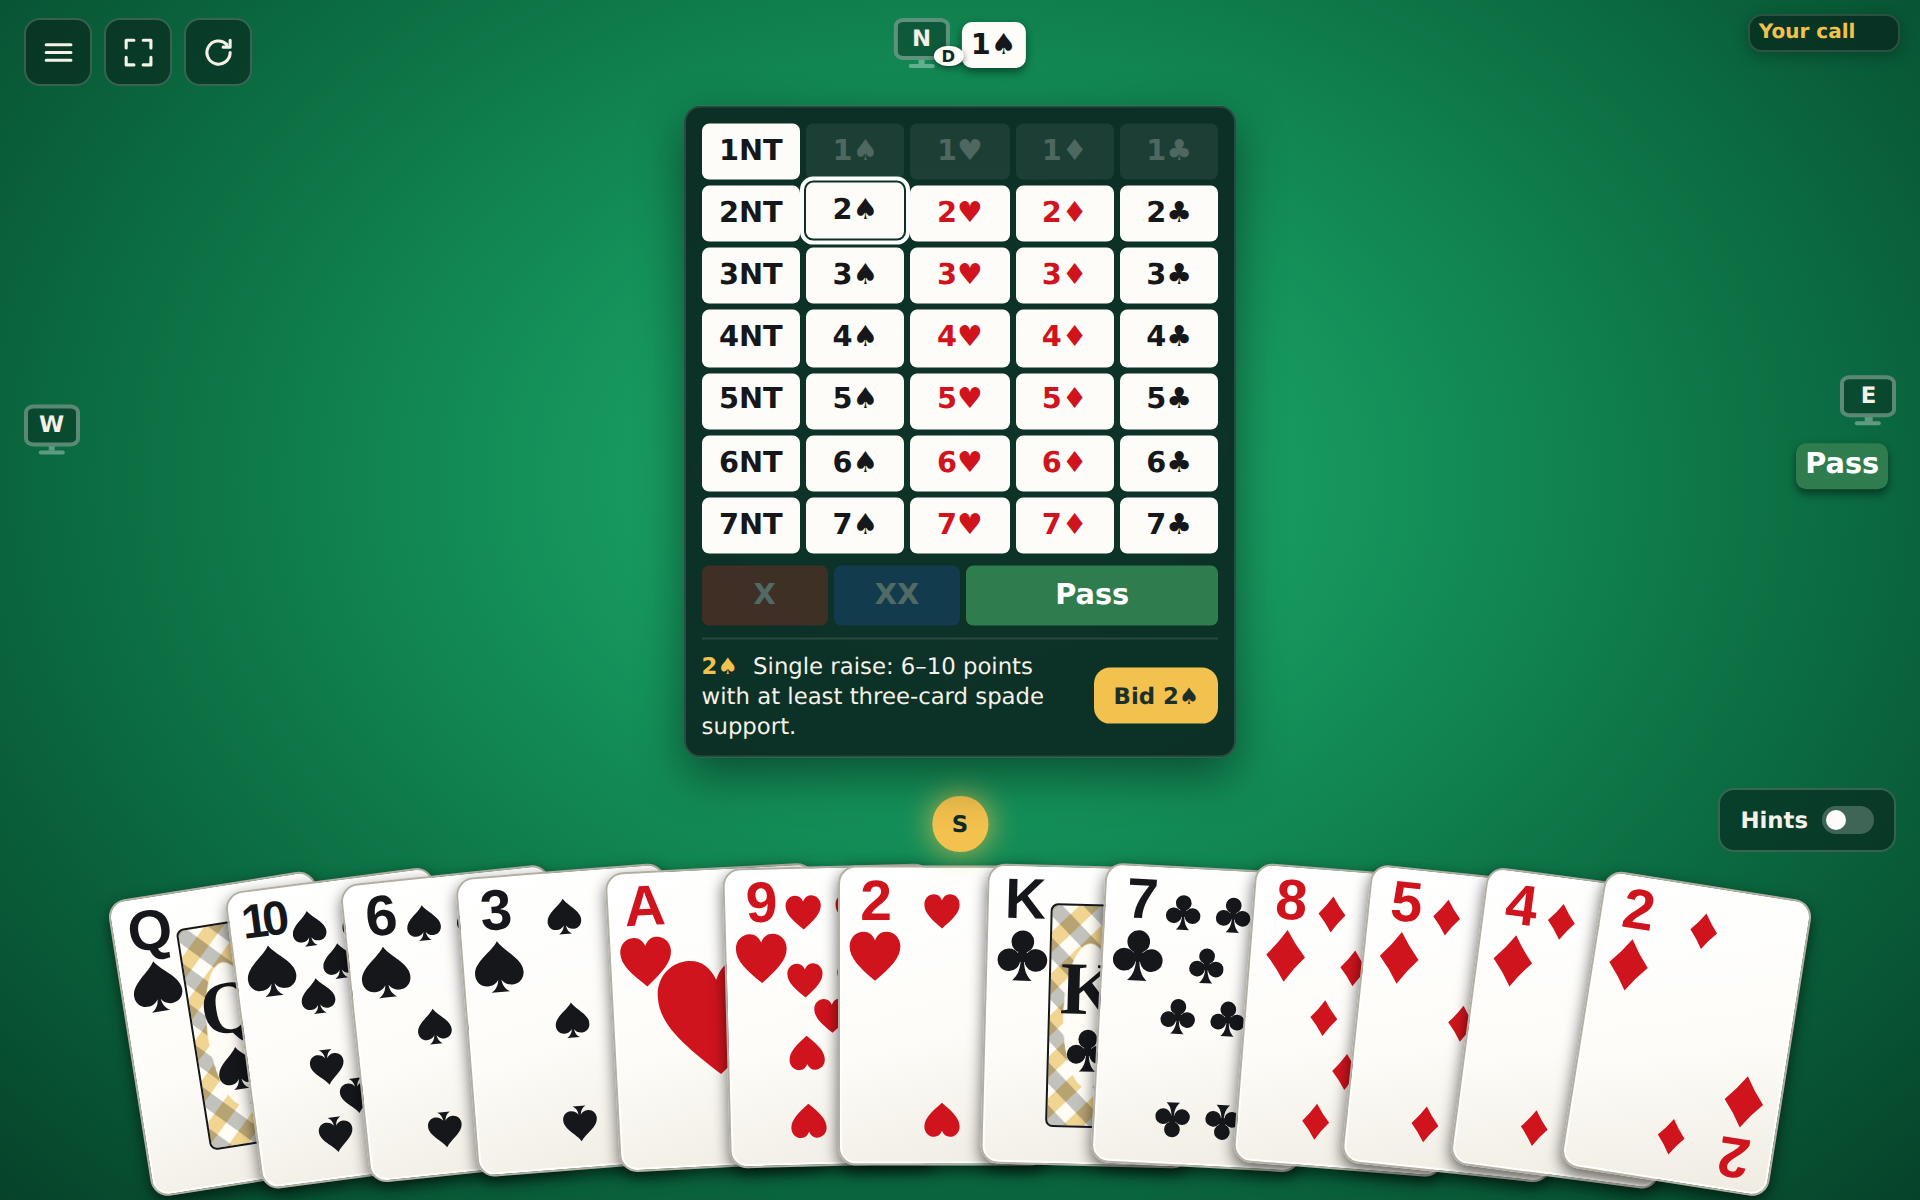
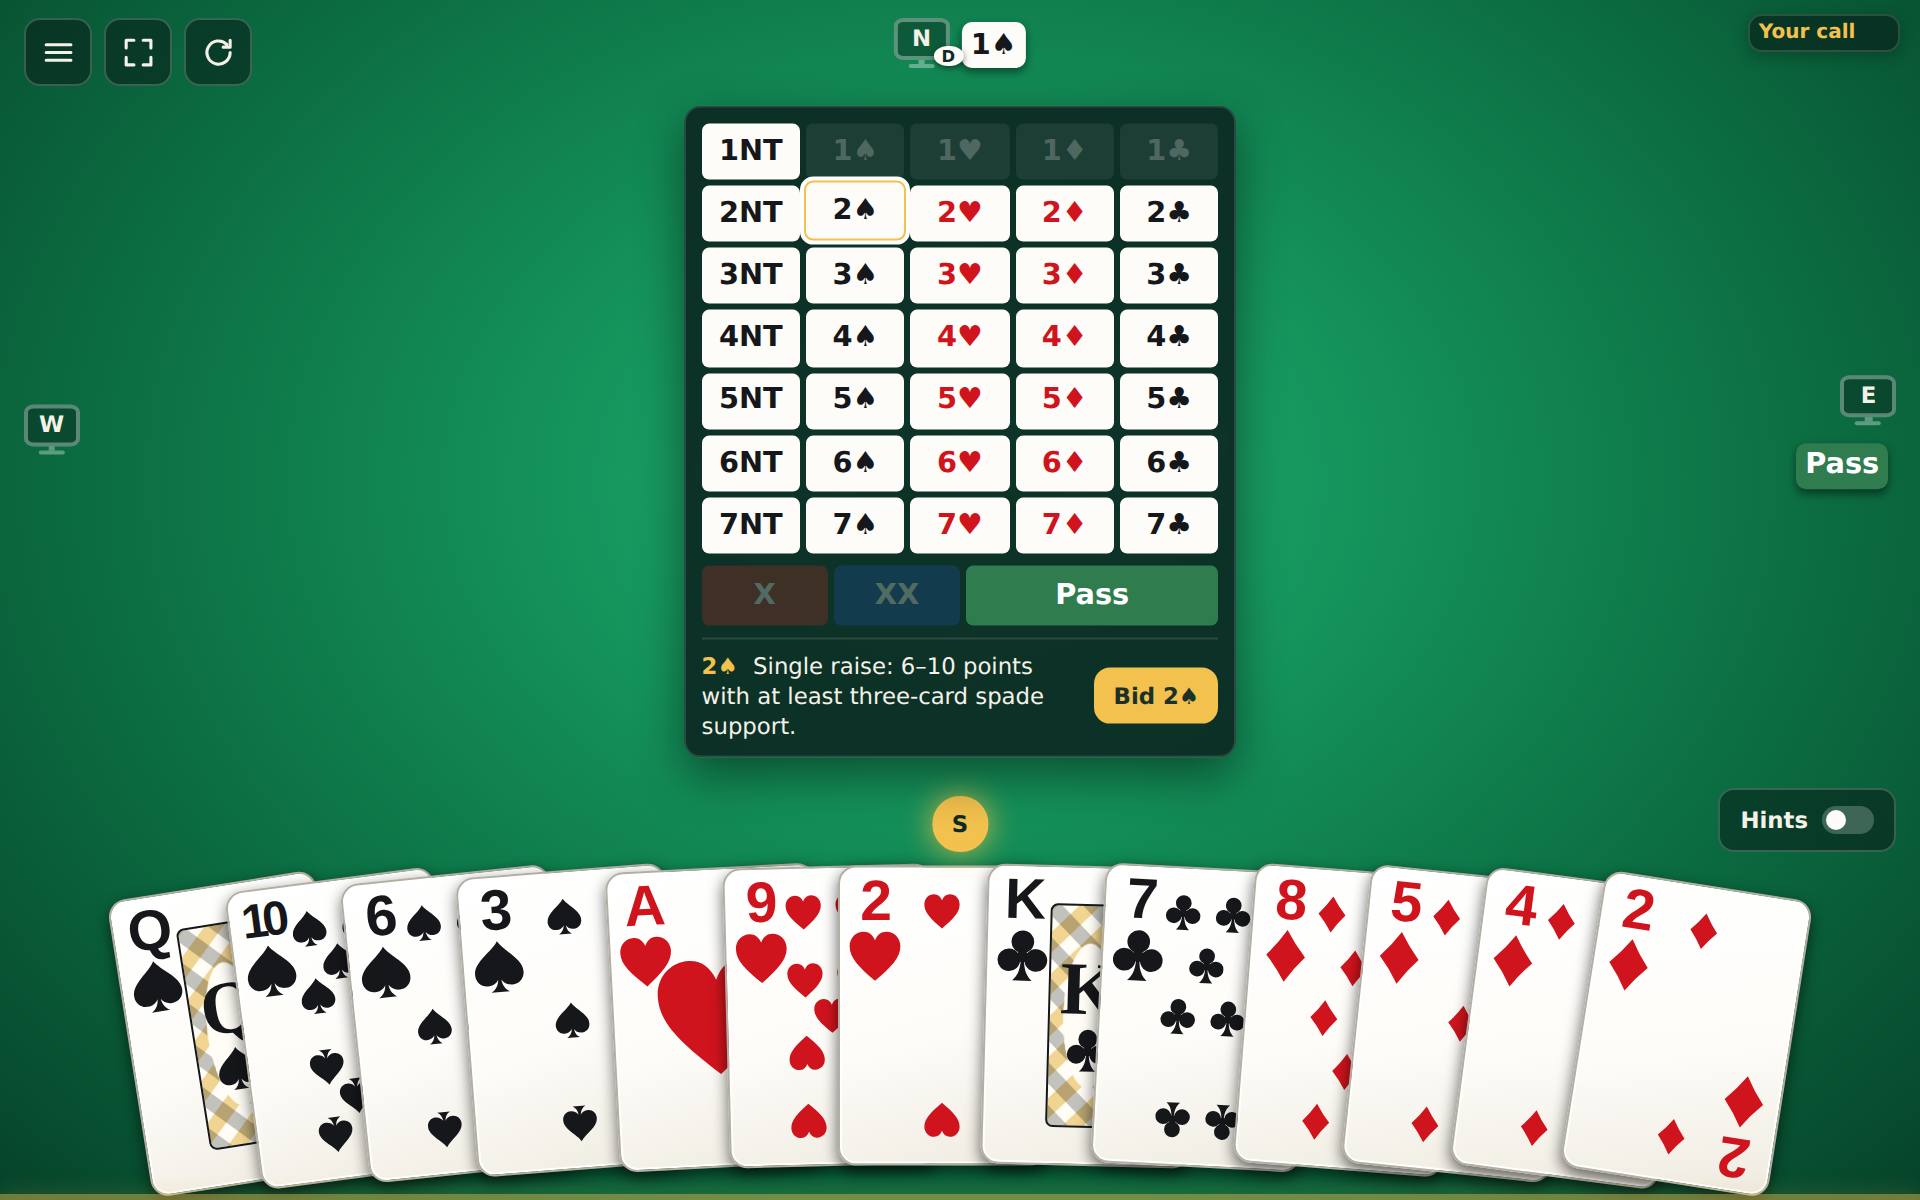
Show whose turn it is with a blinking line at the screen edge
A thin gold line fades in and out along the screen edge on the side of
the seat to act, alongside the gold seat badge. It stays still when the
system asks for reduced motion. README screenshots retaken.

Changed region(s): [[0.0, 0.9867, 1.0, 1.0]]

diff --git a/apps/client/src/table/TableView.test.tsx b/apps/client/src/table/TableView.test.tsx
@@ -252,3 +252,28 @@ describe("confirming calls", () => {
     expect(screen.getByRole("status").textContent).toContain("means 2spades");
   });
 });
+
+describe("turn edge", () => {
+  const edge = (container: HTMLElement) => container.querySelector(".turn-edge")?.className;
+
+  it("lines the screen edge on the side of the seat to act", () => {
+    // North sits at the bottom, so East (on lead) is on the left.
+    const { container, rerender } = renderTable(publicGame(playing(), ["north"]));
+    expect(edge(container)).toBe("turn-edge turn-edge-left");
+    const next = publicGame(afterOpeningLead(), ["north"]);
+    rerender(<TableView game={next} bottomSeat="north" displayedTrick={next.currentTrick} showCalls={false} onToggleCalls={() => {}} lastTrickOpen={false} onToggleLastTrick={() => {}}
+      showBottomHand={false} fixedSeatHands statusText="" ariaLabel="Table" />);
+    expect(edge(container)).toBe("turn-edge turn-edge-top");
+  });
+
+  it("follows the bidder in the auction and turns with the viewer's seat", () => {
+    expect(edge(renderTable(publicGame(newGame(), ["north"])).container)).toBe("turn-edge turn-edge-bottom");
+    cleanup();
+    expect(edge(renderTable(publicGame(newGame(), ["east"]), { bottomSeat: "east" }).container)).toBe("turn-edge turn-edge-right");
+  });
+
+  it("is gone once the hand is over", () => {
+    const passedOut = apply(newGame(), ...(["north", "east", "south", "west"] as const).map((seat) => ({ type: "bid" as const, seat, bid: "pass" as const })));
+    expect(edge(renderTable(publicGame(passedOut, ["north"])).container)).toBeUndefined();
+  });
+});

diff --git a/apps/client/src/styles.css b/apps/client/src/styles.css
@@ -799,7 +799,17 @@ button.dummy-card { cursor: pointer; transition: transform .12s ease; }
 }
 .table-panel.dealing :is(.hand-zone, .hidden-hand, .dummy-table-hand, .seat-auction-calls, .bid-picker) { animation: deal-reveal .35s ease 1.6s backwards; }
 @keyframes deal-reveal { from { opacity: 0; } to { opacity: 1; } }
+/* Turn edge: a thin gold line along the screen edge nearest the seat to act, fading in and out, under everything interactive. */
+.turn-edge { position: fixed; z-index: 15; pointer-events: none; background: var(--gold); box-shadow: 0 0 10px rgba(242, 193, 78, .7); animation: turn-edge-blink 1.6s ease-in-out infinite; }
+.turn-edge-top, .turn-edge-bottom { left: 0; right: 0; height: 3px; }
+.turn-edge-left, .turn-edge-right { top: 0; bottom: 0; width: 3px; }
+.turn-edge-top { top: 0; }
+.turn-edge-bottom { bottom: 0; }
+.turn-edge-left { left: 0; }
+.turn-edge-right { right: 0; }
+@keyframes turn-edge-blink { 0%, 100% { opacity: .15; } 50% { opacity: .7; } }
 @media (prefers-reduced-motion: reduce) {
+  .turn-edge { animation: none; opacity: .45; }
   .deal-animation { display: none; }
   .table-panel.dealing :is(.hand-zone, .hidden-hand, .dummy-table-hand, .seat-auction-calls, .bid-picker) { animation: none; }
   .tour-slide { transition: none; }

diff --git a/apps/client/src/table/TableView.tsx b/apps/client/src/table/TableView.tsx
@@ -216,6 +216,9 @@ export function TableView({
           {toolsNote}
         </div>
 
+        {/* A second, quieter turn cue: a thin blinking line along the screen edge on the side of the seat to act. */}
+        {liveTurn && shownActor ? <div className={`turn-edge turn-edge-${positionOf(shownActor)}`} aria-hidden="true" /> : null}
+
         {seats.map((seat) => {
           const position = positionOf(seat);
           const hasPlayed = phase === "play" && game.currentTrick.some((play) => play.seat === seat);

diff --git a/CHANGES.md b/CHANGES.md
@@ -2,6 +2,7 @@
 
 ## Unreleased
 
+- **A line at the screen edge shows whose turn it is.** Besides the gold seat badge, a thin gold line now fades in and out along the edge of the screen on the side of the player to act: the bottom when it's you, the top for the seat across from you, and the left or right side for the opponents. It moves with each call and card, at solo and online tables and when watching, and goes away when the hand ends. It never blocks a tap, and it stays still (dimly lit) if your system asks for reduced motion. The README screenshots are retaken with it.
 - **Check what a call means before you make it.** In the bidding box, a first tap now picks a call instead of making it: the call is ringed, and what it would tell partner shows under the box, next to a gold **Bid 2♠** button (**Pass**, **Double** or **Redouble** for the others). Tap the same call again or the button to make it, or tap other calls to compare them; Escape or a tap elsewhere clears the pick, and it clears itself when the auction moves on. The meaning comes from the public auction only, the same explanations as clicking a call already made, so it's safe at online tables. It works solo and online, and with Hints on the suggested call keeps its gold. On a phone held sideways the meaning shows beside the box so nothing else moves. It's on by default; **Bid with one tap** in the game menu (≡) brings back single-tap bidding, and this browser remembers the choice. Preview 40 (Auction: checking a call before making it) shows it, and the README's bidding and hints screenshots are retaken.
 - **Seating moves to the game menu, and always leads back to the table.** At an online table, **Seating** is now in the ≡ game menu during a hand as well as after one, and it's no longer a button on the hand result or the rubber scorecard. The seating screen has a gold **Back to the table** button in its top bar. It returns you to the hand in play or the finished hand, instead of only offering Back to lobby (the old Show the hands link was easy to miss). Opened mid-hand, the seats are shown read-only with "A hand is in progress. Seats can change when it ends.", since seats, bots and skill levels can only change between hands. A new deal brings the table back by itself. If you aren't seated, the menu entry reads **Take a seat**. Previews 10 (Game menu) and 15 (Rubber won) show it.
 - **Each seat's latest call comes first.** The calls shown beside each seat now read newest to oldest, so a player's most recent bid is the leftmost in their row instead of the rightmost. It applies during the auction, during play, and in the face-up review at the end of a hand, at solo and online tables alike, and screen readers read the calls in the same order. Preview 13 (Hand result) shows North's 4♠ ahead of 1♠.
